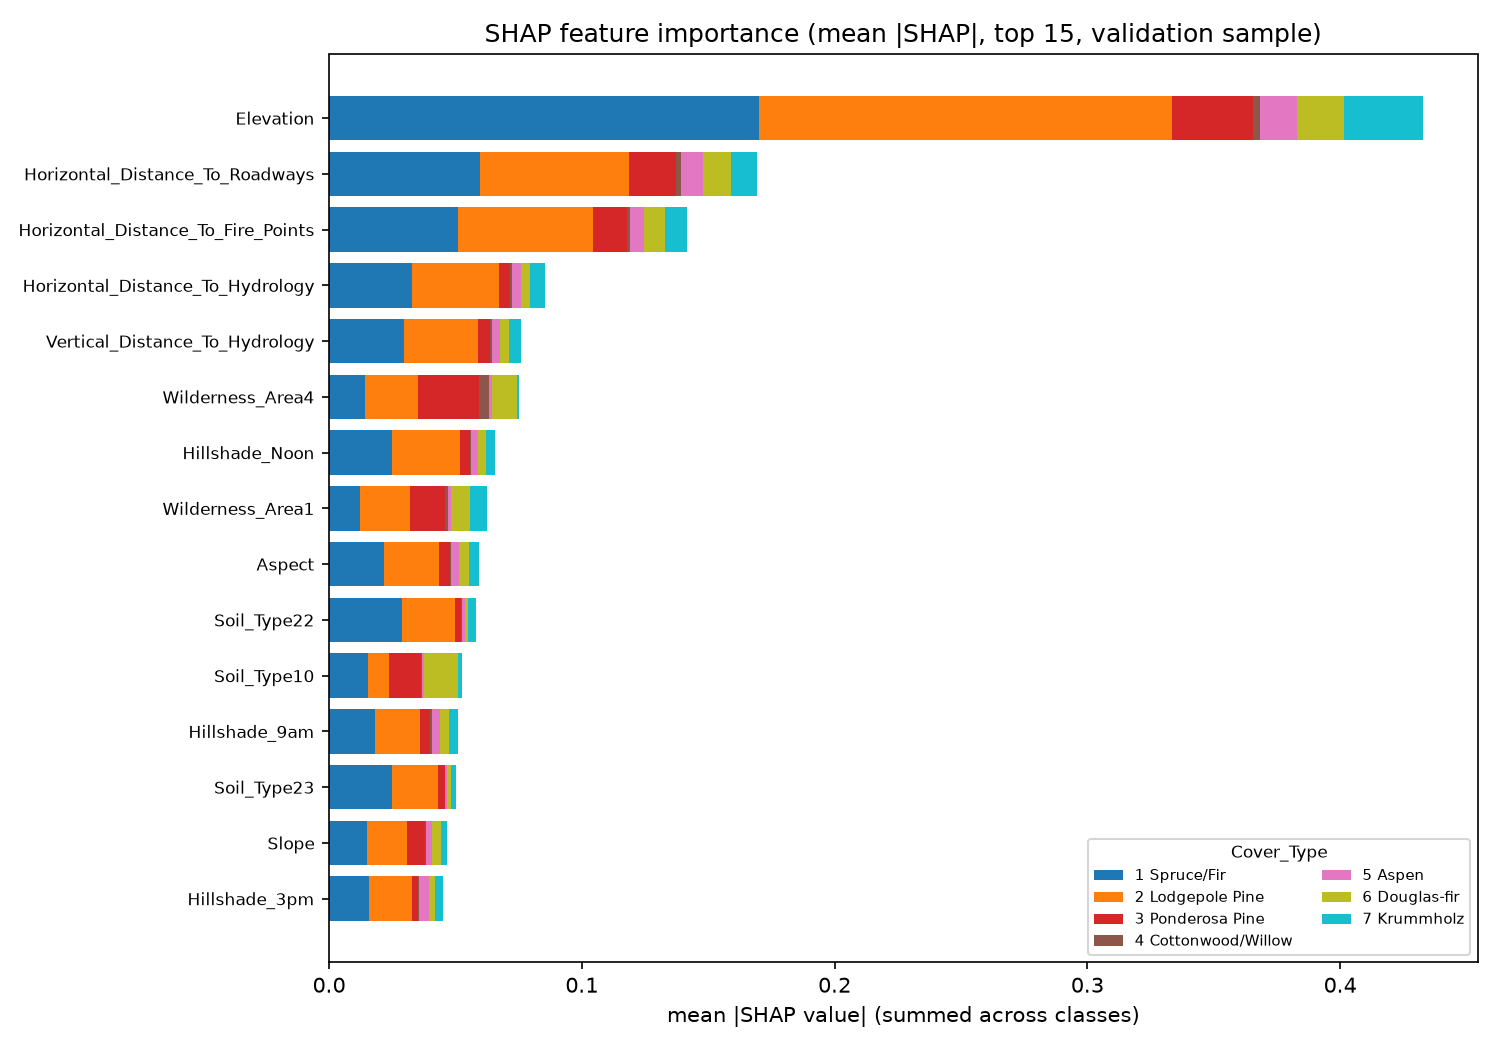
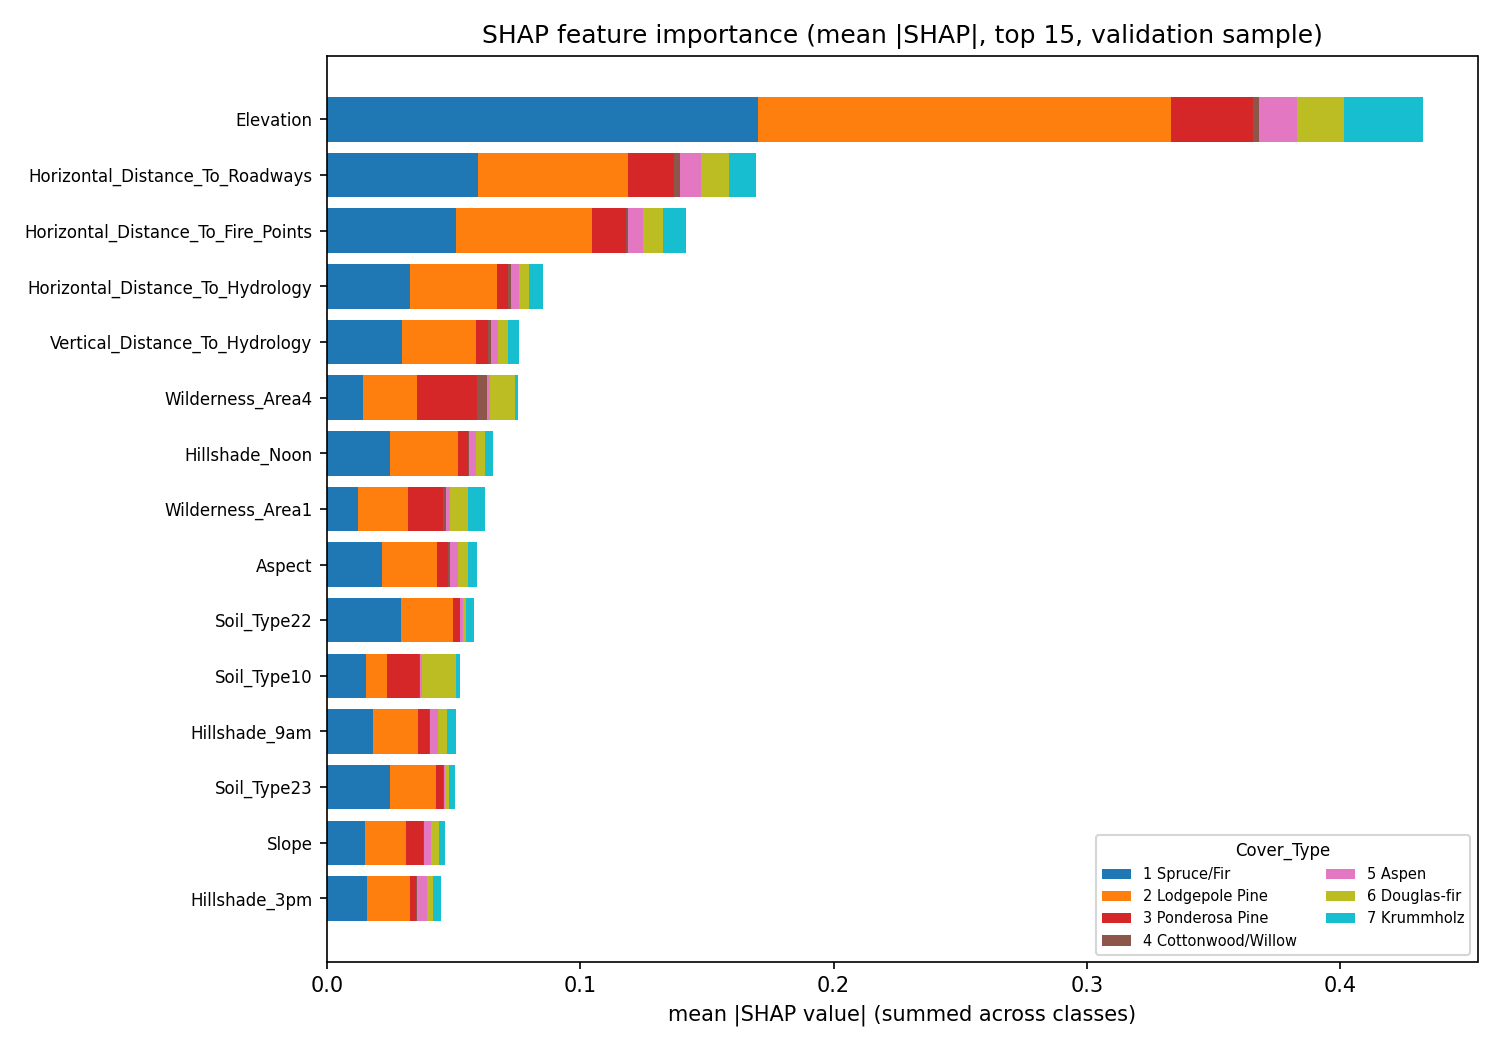
fix(deps): pin shap to 0.49.1 compatible with numpy 1.26.4 (#30)
shap 0.51.0 requires numpy>=2, which conflicts with the project's pinned
numpy==1.26.4 (ResolutionImpossible in CI). 0.49.1 is the last shap release
that accepts numpy<2 and supports Python 3.11; verified end to end in a
clean venv built from the pinned stack (same SHAP values and figures).

diff --git a/specs/feature-30-m5-model-interpretability-shap.md b/specs/feature-30-m5-model-interpretability-shap.md
@@ -39,7 +39,7 @@ per-prediction attribution of why the model decides each class.
 | `docs/figures/shap_beeswarm.png` | New: beeswarm for the representative class. |
 | `docs/figures/shap_dependence_elevation.png` | New: dependence plot for `Elevation`. |
 | `docs/MODELING.md` | New *Model interpretability (SHAP)* subsection under the M5 results. |
-| `requirements.txt` | Add `shap==0.51.0` (new dependency). |
+| `requirements.txt` | Add `shap==0.49.1` (new dependency). |
 
 Decisions:
 
@@ -65,9 +65,10 @@ Decisions:
 - **Plots.** Summary bar (all classes), beeswarm for the majority class
   Lodgepole Pine (shows effect direction), dependence for `Elevation` (the top
   feature of #26 and η² 0.616). matplotlib `Agg`, headless.
-- **New dependency:** `shap==0.51.0` (declared here and in the PR) — the last
-  release compatible with the project's pinned Python 3.11 (0.52+ require
-  Python >=3.12). No other new dependency: numpy, pandas, matplotlib,
+- **New dependency:** `shap==0.49.1` (declared here and in the PR) — the last
+  release compatible with the project's pinned `numpy==1.26.4` (shap 0.50+ pin
+  `numpy>=2`, and 0.52+ require Python >=3.12). Verified in a clean venv built
+  from the pinned stack. No other new dependency: numpy, pandas, matplotlib,
   scikit-learn are already pinned.
 
 ## Acceptance criteria
